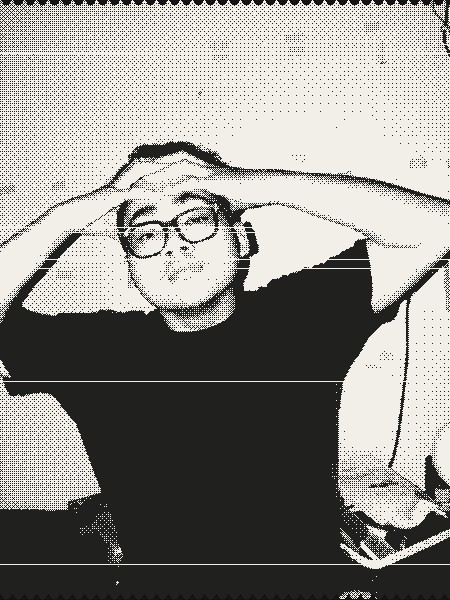
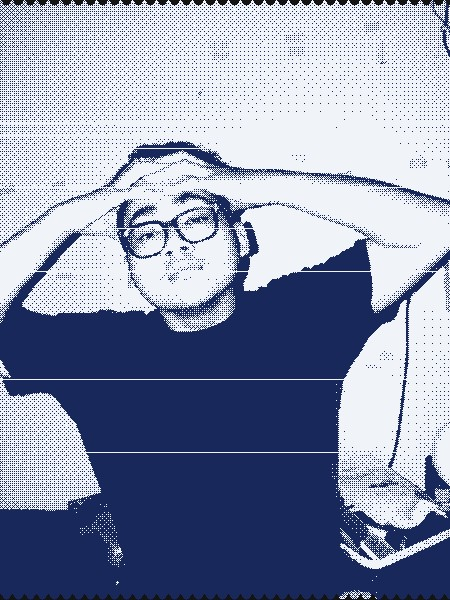
feat: readme.md

diff --git a/poc_js.js b/poc_js.js
@@ -1,6 +1,22 @@
 import sharp from 'sharp';
+import { parseArgs } from 'util';
 
-// 8x8 Bayer Dithering Matrix
+// 1. Thermal Color Presets
+const PALETTES = {
+  cream: { paper: [242, 239, 233], ink: [32, 32, 30] },
+  aged:  { paper: [235, 222, 190], ink: [50, 42, 35] },
+  blue:  { paper: [240, 244, 248], ink: [25, 40, 90] },
+  bw:    { paper: [255, 255, 255], ink: [0, 0, 0] },
+};
+
+// 2. Dither Matrices
+const BAYER_4X4 = [
+  [ 0,  8,  2, 10],
+  [12,  4, 14,  6],
+  [ 3, 11,  1,  9],
+  [15,  7, 13,  5]
+];
+
 const BAYER_8X8 = [
   [ 0, 32,  8, 40,  2, 34, 10, 42],
   [48, 16, 56, 24, 50, 18, 58, 26],
@@ -12,19 +28,34 @@ const BAYER_8X8 = [
   [63, 31, 55, 23, 61, 29, 53, 21]
 ];
 
-async function runThermalFilter({
-  inputPath = 'input_js.jpg',
-  outputPath = 'output_js.jpg',
-  printWidth = 450,
-  contrast = 1.7,
-  deadPinDensity = 0.015,
-  paperColor = [242, 239, 233],
-  inkColor = [32, 32, 30],
-  bgColor = [20, 20, 20]
-} = {}) {
-  console.log(`Processing ${inputPath}...`);
+// 3. CLI Options Parsing
+const { values } = parseArgs({
+  args: Bun.argv.slice(2),
+  options: {
+    input:    { type: 'string', short: 'i', default: 'input_js.jpg' },
+    output:   { type: 'string', short: 'o', default: 'output_js.jpg' },
+    width:    { type: 'string', short: 'w', default: '450' },
+    contrast: { type: 'string', short: 'c', default: '1.7' },
+    bright:   { type: 'string', short: 'b', default: '1.0' },
+    dither:   { type: 'string', short: 'd', default: 'bayer8' }, // bayer8 | bayer4 | threshold
+    palette:  { type: 'string', short: 'p', default: 'blue' },  // cream | aged | blue | bw
+    dropouts: { type: 'string', default: '0.015' },
+    noTear:   { type: 'boolean', default: false }
+  },
+  strict: false,
+});
 
-  // 1. Load image and scale down to receipt pixel width in grayscale
+async function run() {
+  const inputPath = values.input;
+  const outputPath = values.output;
+  const printWidth = parseInt(values.width, 10);
+  const contrast = parseFloat(values.contrast);
+  const brightness = parseFloat(values.bright);
+  const dropouts = parseFloat(values.dropouts);
+  const palette = PALETTES[values.palette] || PALETTES.cream;
+  const showTear = !values.noTear;
+
+  // Load and obtain dimensions
   const metadata = await sharp(inputPath).metadata();
   const printHeight = Math.round((metadata.height / metadata.width) * printWidth);
 
@@ -34,69 +65,70 @@ async function runThermalFilter({
     .raw()
     .toBuffer({ resolveWithObject: true });
 
-  // 2. Prepare output buffer (3 channels: R, G, B)
   const outBuffer = new Uint8Array(printWidth * printHeight * 3);
 
-  // 3. Generate random dead pin dropout row indices
+  // Generate random dead printer head dropout rows
   const deadRows = new Set();
-  const numDropouts = Math.floor(printHeight * deadPinDensity);
+  const numDropouts = Math.floor(printHeight * dropouts);
   while (deadRows.size < numDropouts) {
     deadRows.add(Math.floor(Math.random() * printHeight));
   }
 
-  // 4. Pixel-by-pixel Dithering & Palette Remapping
+  const bgColor = [20, 20, 20];
+
   for (let y = 0; y < printHeight; y++) {
     for (let x = 0; x < printWidth; x++) {
       const inIdx = y * printWidth + x;
       const outIdx = (y * printWidth + x) * 3;
 
-      // Serrated tear edges (Top and Bottom)
-      const toothSize = 12;
-      const toothDepth = 6;
-      const toothY = Math.floor(Math.abs(Math.sin((x / toothSize) * Math.PI)) * toothDepth);
-      const isOutsidePaper = y < toothY || y >= (printHeight - toothDepth + toothY);
-
-      if (isOutsidePaper) {
-        outBuffer[outIdx]     = bgColor[0];
-        outBuffer[outIdx + 1] = bgColor[1];
-        outBuffer[outIdx + 2] = bgColor[2];
-        continue;
+      // Serrated tear edge rendering
+      if (showTear) {
+        const toothSize = 12;
+        const toothDepth = 6;
+        const toothY = Math.floor(Math.abs(Math.sin((x / toothSize) * Math.PI)) * toothDepth);
+        if (y < toothY || y >= (printHeight - toothDepth + toothY)) {
+          outBuffer[outIdx]     = bgColor[0];
+          outBuffer[outIdx + 1] = bgColor[1];
+          outBuffer[outIdx + 2] = bgColor[2];
+          continue;
+        }
       }
 
-      // Dead printer head pin dropout line
+      // Dead pin row
       if (deadRows.has(y)) {
-        outBuffer[outIdx]     = paperColor[0];
-        outBuffer[outIdx + 1] = paperColor[1];
-        outBuffer[outIdx + 2] = paperColor[2];
+        outBuffer[outIdx]     = palette.paper[0];
+        outBuffer[outIdx + 1] = palette.paper[1];
+        outBuffer[outIdx + 2] = palette.paper[2];
         continue;
       }
 
-      // Grayscale value (0.0 to 1.0)
-      let norm = rawGrayscale[inIdx] / 255.0;
-
-      // Apply contrast curve
+      // Brightness & Contrast Adjustments
+      let norm = (rawGrayscale[inIdx] / 255.0) * brightness;
       norm = (norm - 0.5) * contrast + 0.5;
       norm = Math.min(1.0, Math.max(0.0, norm));
 
-      // Bayer Dithering Threshold lookup
-      const threshold = BAYER_8X8[y % 8][x % 8] / 64.0;
-      const activeColor = norm > threshold ? paperColor : inkColor;
+      // Thresholding / Dithering Selection
+      let threshold = 0.5;
+      if (values.dither === 'bayer4') {
+        threshold = BAYER_4X4[y % 4][x % 4] / 16.0;
+      } else if (values.dither === 'bayer8') {
+        threshold = BAYER_8X8[y % 8][x % 8] / 64.0;
+      }
 
+      const activeColor = norm > threshold ? palette.paper : palette.ink;
       outBuffer[outIdx]     = activeColor[0];
       outBuffer[outIdx + 1] = activeColor[1];
       outBuffer[outIdx + 2] = activeColor[2];
     }
   }
 
-  // 5. Output back to JPEG
   await sharp(outBuffer, {
     raw: { width: printWidth, height: printHeight, channels: 3 }
   })
   .jpeg({ quality: 90 })
   .toFile(outputPath);
 
-  console.log(`Done! Saved to ${outputPath}`);
+  console.log(`Rendered: ${outputPath} [Width: ${printWidth}px, Dither: ${values.dither}, Palette: ${values.palette}]`);
 }
 
-// Execute
-runThermalFilter();
+run();

diff --git a/readme.md b/readme.md
@@ -1,0 +1,89 @@
+# thermal receipt filter
+
+a lightweight thermal print filter implemented in both python and javascript (bun). converts regular photos into dithered thermal printer receipts with custom color palettes, dead printhead glitches, and serrated paper tear edges.
+
+vibecoded with gemini 3.6
+
+---
+
+## how it works
+
+1. **grayscale & contrast adjustment**: scales the image to receipt pixel width and boosts contrast so midtones push into crisp dot patterns.
+2. **bayer dithering**: compares pixel luminance against a threshold matrix (`4x4` or `8x8`) to simulate 1-bit thermal print dots.
+3. **color remapping**: maps binary pixels to paper and ink tones instead of harsh digital black and white.
+4. **printhead dropouts**: randomly erases horizontal pixel rows to simulate dead thermal printer pins.
+5. **serrated paper tear**: clips top and bottom canvas boundaries with a sine wave mask.
+
+---
+
+## python poc
+
+### dependencies
+
+* python 3.x
+* `pillow`
+* `numpy`
+
+```bash
+pip install pillow numpy
+
+```
+
+### execution
+
+```bash
+python poc_python.py
+
+```
+
+uses `numpy` matrix tiling for fast matrix comparisons and `pillow` for image contrast manipulation.
+
+---
+
+## javascript / bun poc
+
+the javascript version is built for high-performance array operations using `bun` and `sharp`.
+
+### dependencies
+
+* `bun` runtime
+* `sharp`
+
+```bash
+bun add sharp
+
+```
+
+### execution
+
+run with default settings:
+
+```bash
+bun poc_js.js
+
+```
+
+### cli options
+
+customize the filter output on the fly using command line flags:
+
+* `-i, --input`: path to input image (default: `input_js.jpg`)
+* `-o, --output`: path to output image (default: `output_js.jpg`)
+* `-w, --width`: receipt paper width in pixels (default: `450`)
+* `-c, --contrast`: contrast adjustment factor (default: `1.7`)
+* `-b, --bright`: brightness multiplier (default: `1.0`)
+* `-d, --dither`: dithering mode (`bayer8`, `bayer4`, `threshold`)
+* `-p, --palette`: thermal paper palette (`cream`, `aged`, `blue`, `bw`)
+* `--dropouts`: dead pin dropout line density (default: `0.015`)
+* `--notear`: disable serrated paper tear edges
+
+### examples
+
+```bash
+# vintage yellowed receipt with 4x4 bayer dithering
+bun poc_js.js -i photo.jpg -o aged.jpg -p aged -d bayer4
+
+# high contrast blueprint effect without serrated edges
+bun poc_js.js -i photo.jpg -o blueprint.jpg -p blue -c 2.0 --notear
+
+```
